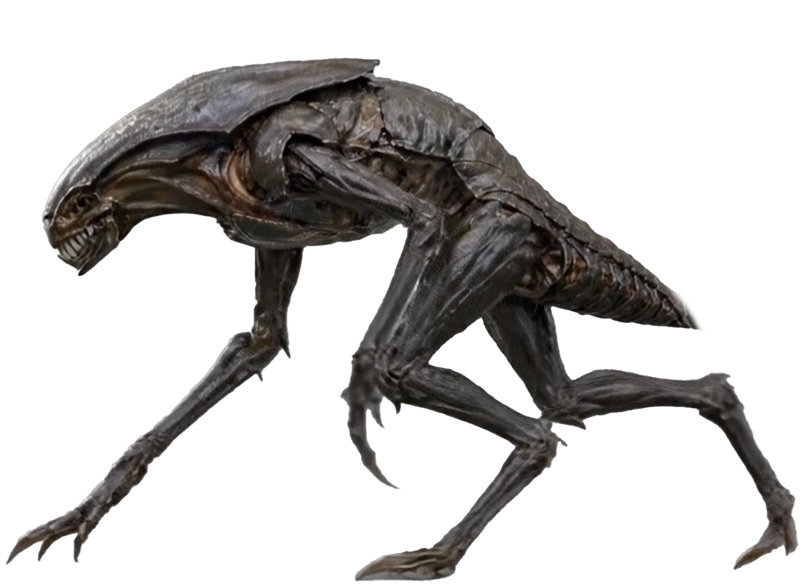
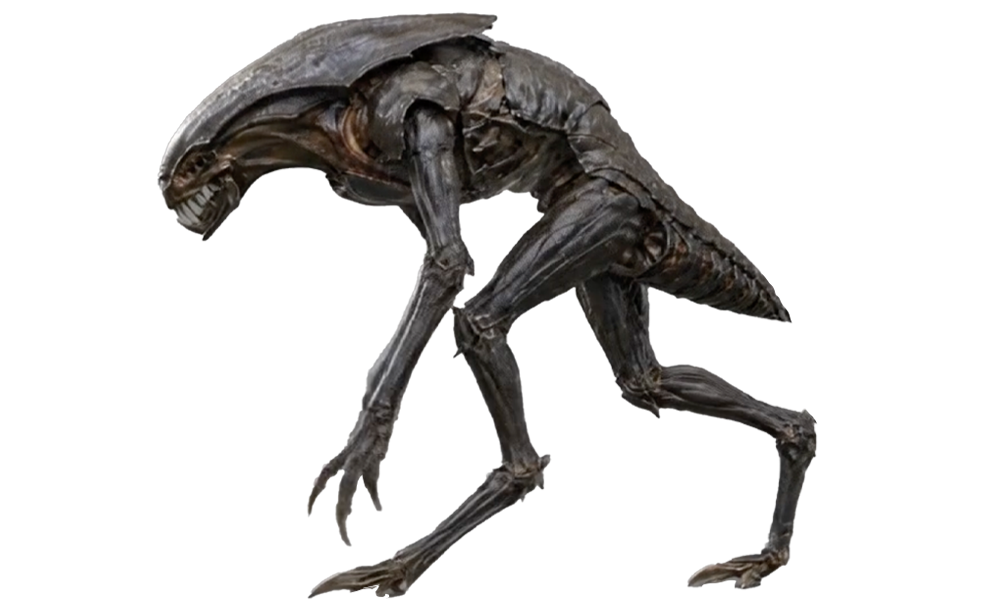
ボス雑魚拡充・捕獲挙動修正・矢印SVG化・無敵廃止
- 雑魚画像を 10:6 (1000×600) に統一、表示 40×24
- ボス用 alien-b-1/f/fl/fr 追加（add.sprite 化、emerge/turn/walk 共通機構）
  - boss は B_1 のみ単発フレーム。2-6 追加で本格歩行に拡張可能
  - 表示 56×56 に拡大、影も 50px に
- 雑魚 walk frameRate 12→8 にスローダウン
- 移動速度: 雑魚 45→50、ボス 28→30
- 仲間捕獲挙動を全面見直し：
  - 出てきた瞬間から捕獲対象（無敵延長を撤回）
  - 捕獲時はその場で停止 → 仲間も alien・泡と一緒に地中に引きずり込まれる
  - 「空中なら一旦地面へ」分岐を撤去、即捕獲アニメ
- 旧 boss-l/r テクスチャ参照を整理（雑魚と同じ animPrefix で統一）
- 旧 alien1-l/r.png（humanoid 画像）を削除
- ガイド矢印を assets/arrow.svg (1個分・右向き) に置換
  - makeArrowGroup ヘルパーで 1〜3 個並べ、左向きは flipX
  - 旧 6枚の addBase64 (label_arrow_*) 撤去
  - サイズは 0.25/6 で元の文字版とほぼ同等

diff --git a/index.html b/index.html
@@ -202,6 +202,7 @@
 
         function preload() {
             this.load.image('background', 'assets/background.jpg');
+            this.load.image('arrow_unit', 'assets/arrow.svg'); // 右向き矢印1個分（左向きは flipX）
             this.load.image('pod', 'assets/pod.png');
             this.load.image('spaceship', 'assets/spaceship.png');
             this.load.image('spacemy', 'assets/spacemy.png');
@@ -255,6 +256,11 @@
             // 攻撃（捕獲）2コマ。A2 で停止
             this.load.image('alien_A1', 'assets/alien-s-a1.png');
             this.load.image('alien_A2', 'assets/alien-s-a2.png');
+            // ボス（雑魚と同じ仕組み。歩行は現状 B_1 のみ、2-6 は後ほど追加予定）
+            this.load.image('alienB_1', 'assets/alien-b-1.png');
+            this.load.image('alienB_F', 'assets/alien-b-f.png');
+            this.load.image('alienB_FL', 'assets/alien-b-fl.png');
+            this.load.image('alienB_FR', 'assets/alien-b-fr.png');
             this.load.image('mooncar', 'assets/moon-car.png'); // 大破した月面探査車
             this.load.image('crew', 'assets/crew-f.png'); // 救出する仲間（正面）
             this.load.image('crew_0', 'assets/crew-0.png'); // 仲間（横向きアイドル）
@@ -355,20 +361,9 @@
                 this.makeFailLabel('label_missionfailed', 'Mission Failed');
                 this.makeFailLabel('label_rescuefailed', 'Rescue Failed');
 
-                // 方向矢印もSVGでクッキリ
-                const arrowOpts = {
-                    fontSize: 8,
-                    fill: '#88ffaa',
-                    fontWeight: '600',
-                    fontFamily: "Helvetica, Arial, sans-serif",
-                    charW: 0.45
-                };
-                ['>', '>>', '>>>', '<', '<<', '<<<'].forEach(s => {
-                    const key = 'label_arrow_' + s.replace(/>/g, 'r').replace(/</g, 'l');
-                    if (!this.textures.exists(key)) {
-                        this.textures.addBase64(key, makeLabelSVG(s, arrowOpts));
-                    }
-                });
+                // 方向矢印は assets/arrow.svg を直接使う（右向き1個分）。
+                // 1〜3個の矢印を横に並べ、左向きは flipX で反転。
+                const arrowOpts = { fill: '#88ffaa' }; // label_offtarget の流用元として残す
                 // ゴール外着地メッセージ（矢印と同サイズ・赤寄りピンク）
                 if (!this.textures.exists('label_offtarget')) {
                     this.textures.addBase64('label_offtarget', makeLabelSVG('Landed too far from target', { ...arrowOpts, fill: '#ff6688' }));
@@ -378,6 +373,30 @@
             generateLabels();
             // 4x で描画したビットマップを 1/4 で表示するためのスケール
             this._labelDisplayScale = 1 / SVG_SCALE;
+
+            // arrow.svg を 1〜3 個並べて方向矢印を作るヘルパー。
+            // SVG: viewBox 0-60, 矢印の見える幅は 0-40 (= 全体の 2/3)。
+            // 右向き＝そのまま、左向き＝flipX で反転。
+            this.makeArrowGroup = (anchorX, anchorY, count, isRight, depth, scale) => {
+                const dir = isRight ? 1 : -1;
+                const tex = this.textures.get('arrow_unit');
+                const srcW = tex.getSourceImage().width;     // 実ラスタ幅
+                const imageW = srcW * scale;                 // 表示時の画像本体幅
+                const arrowVisibleW = imageW * (40 / 60);    // 並びの間隔（密着）
+                // 右向き: anchorX を矢印群の左端に。左向き: anchorX を矢印群の右端に。
+                const baseX = isRight ? anchorX : anchorX - imageW;
+                const arrows = [];
+                for (let i = 0; i < count; i++) {
+                    const ax = baseX + dir * arrowVisibleW * i;
+                    arrows.push(this.add.image(ax, anchorY, 'arrow_unit')
+                        .setOrigin(0, 0.5)
+                        .setDepth(depth)
+                        .setAlpha(0)
+                        .setScale(scale)
+                        .setFlipX(!isRight));
+                }
+                return arrows;
+            };
 
             // 的マーカーの描画ヘルパー
             this.drawLandingMarker = (color) => {
@@ -854,7 +873,7 @@
                     { key: 'alien_5' },
                     { key: 'alien_6' }
                 ],
-                frameRate: 12,
+                frameRate: 8,
                 repeat: -1
             });
             // 振り向きアニメ（FL/FR は絶対向きなので flipX しない）
@@ -888,6 +907,37 @@
                 key: 'alien_attack',
                 frames: [{ key: 'alien_A1' }, { key: 'alien_A2' }],
                 frameRate: 10,
+                repeat: 0
+            });
+            // ----- ボス用アニメ（雑魚と同形状。歩行は B_1 単発のみ、2-6 追加で拡張予定）-----
+            this.anims.create({
+                key: 'bossAlien_walk',
+                frames: [{ key: 'alienB_1' }],
+                frameRate: 12,
+                repeat: -1
+            });
+            this.anims.create({
+                key: 'bossAlien_emerge_L',
+                frames: [{ key: 'alienB_F' }, { key: 'alienB_FL' }],
+                frameRate: 8,
+                repeat: 0
+            });
+            this.anims.create({
+                key: 'bossAlien_emerge_R',
+                frames: [{ key: 'alienB_F' }, { key: 'alienB_FR' }],
+                frameRate: 8,
+                repeat: 0
+            });
+            this.anims.create({
+                key: 'bossAlien_turn_LtoR',
+                frames: [{ key: 'alienB_FL' }, { key: 'alienB_FR' }],
+                frameRate: 14,
+                repeat: 0
+            });
+            this.anims.create({
+                key: 'bossAlien_turn_RtoL',
+                frames: [{ key: 'alienB_FR' }, { key: 'alienB_FL' }],
+                frameRate: 14,
                 repeat: 0
             });
 
@@ -1329,7 +1379,7 @@
 
                 // 地底人の移動＋宇宙飛行士との衝突
                 if (this.enemies && this.enemies.length) {
-                    const enemySpeed = 45;
+                    const enemySpeed = 50;
                     // 接触判定用の縮小ボックス（透過余白を除外）
                     const shrink = (obj, px, py) => {
                         const b = obj.getBounds();
@@ -1361,25 +1411,25 @@
                                 e.lastDir = dx === 0 ? prevDir : Math.sign(dx);
                             }
                             const sign = e.lastDir || 1;
-                            const sp = e.isBoss ? 28 : enemySpeed;
+                            const sp = e.isBoss ? 30 : enemySpeed;
+                            const animPrefix = e.isBoss ? 'bossAlien_' : 'alien_';
+                            const walkKey = animPrefix + 'walk';
                             // 振り向き／出現トランジション中は移動・アニメ切替しない
-                            if (!e.isBoss && !e.turning && !e.emergeTransitioning && sign !== prevDir
-                                && e.anims.currentAnim && e.anims.currentAnim.key === 'alien_walk') {
+                            if (!e.turning && !e.emergeTransitioning && sign !== prevDir
+                                && e.anims.currentAnim && e.anims.currentAnim.key === walkKey) {
                                 e.turning = true;
                                 e.setFlipX(false); // FL/FR は絶対向き
-                                const turnKey = sign > 0 ? 'alien_turn_LtoR' : 'alien_turn_RtoL';
+                                const turnKey = animPrefix + (sign > 0 ? 'turn_LtoR' : 'turn_RtoL');
                                 e.anims.play(turnKey);
                                 e.once('animationcomplete', () => {
                                     if (!e.active) return;
                                     e.turning = false;
                                     e.setFlipX(e.lastDir > 0);
-                                    e.anims.play('alien_walk');
+                                    e.anims.play(walkKey);
                                 });
                             } else if (!e.turning && !e.emergeTransitioning) {
                                 e.x += sign * sp * dt;
-                                if (e.isBoss) {
-                                    e.setTexture('boss_' + (sign < 0 ? 'L' : 'R'));
-                                } else if (e.anims.currentAnim && e.anims.currentAnim.key === 'alien_walk') {
+                                if (e.anims.currentAnim && e.anims.currentAnim.key === walkKey) {
                                     e.setFlipX(sign > 0);
                                 }
                             }
@@ -1396,6 +1446,9 @@
                             const isFirstCapture = !this.astronautGameOver;
                             hitCrew.captured = true;
                             e.capturing = true;
+                            // 捕まった仲間はその場で停止（落下・横移動の進行中tweenを切る）
+                            this.tweens.killTweensOf(hitCrew);
+                            if (hitCrew.anims && hitCrew.anims.isPlaying) hitCrew.anims.stop();
                             // 雑魚は攻撃モーション（A1→A2、A2 で停止）
                             if (!e.isBoss) {
                                 e.setFlipX(e.lastDir > 0); // A1/A2 は左向き、右向き時のみ反転
@@ -1477,13 +1530,13 @@
                                 });
 
                                 this.time.delayedCall(cTotal * 33 + 300, () => {
-                                    hitCrew.setVisible(false);
-                                    // 影を消して緑のシミに置き換える
+                                    // 影を消して緑のシミを地面に残す
                                     if (hitCrew.shadow) { hitCrew.shadow.destroy(); hitCrew.shadow = null; }
                                     spawnDissolveStain(this, captureX, this.groundFeetY);
                                     const sinkY = this.groundFeetY + 50;
+                                    // 仲間も一緒に地中へ引きずり込む
                                     this.tweens.add({
-                                        targets: [...cBubbles, e],
+                                        targets: [...cBubbles, e, hitCrew],
                                         y: sinkY,
                                         duration: 1000,
                                         ease: 'Sine.easeIn',
@@ -1491,6 +1544,7 @@
                                             cBubbles.forEach(b => b.destroy());
                                             if (e.shadow) e.shadow.destroy();
                                             e.destroy();
+                                            hitCrew.destroy();
                                             if (isFirstCapture) {
                                                 this.time.delayedCall(2500, () => { this.scene.restart(); });
                                             }
@@ -1499,13 +1553,8 @@
                                 });
                             };
 
-                            // 仲間が空中なら自然落下tween → 着地後に捕獲アニメ開始
-                            if (hitCrew.y >= this.groundFeetY - 1) {
-                                startCaptureAnim();
-                            } else {
-                                const dur = Math.min(400, (this.groundFeetY - hitCrew.y) * 8);
-                                this.tweens.add({ targets: hitCrew, y: this.groundFeetY, duration: dur, ease: 'Quad.easeIn', onComplete: startCaptureAnim });
-                            }
+                            // その場で捕獲開始（空中でも待たずに止めて引きずり込む）
+                            startCaptureAnim();
                             break; // このフレームで以降の処理は不要
                         }
                         if (!e.capturing && !this.astronaut.captured && this.astronaut.visible && Phaser.Geom.Intersects.RectangleToRectangle(astroBox, enemyBox)) {
@@ -1647,7 +1696,7 @@
                         const c = this.add.sprite(this.moonCar.x, doorY, 'crew_L2');
                         c.setFlipX(exitDir > 0);
                         c.setDisplaySize(15, 19);
-                        c.landed = false; // 着地までは捕獲対象外
+                        c.landed = true; // 出てきた瞬間から捕獲対象
                         c.setOrigin(0.5, 1);
                         c.setDepth(7);
                         // 影は地面に固定（生成時はドア上、降下後は地面）
@@ -1667,9 +1716,9 @@
                                 duration: 350,
                                 ease: 'Quad.easeIn', // 重力で加速して落下（プレイヤーと同じ感じ）
                                 onComplete: () => {
-                                    // 着地：アイドルポーズへ＋捕獲対象に
+                                    // 着地：アイドルポーズに（landed=true は追従開始時に一括で立てる。
+                                    // 着地フレームで捕獲される競合・他仲間のゴースト化を防止）
                                     c.setTexture('crew_0');
-                                    c.landed = true;
                                     // 着地時のSE（rescue-2/3/4 のランダム1つ）。
                                     // 「会話」感を出すため、最初の1人の着地でのみ返事して残りはスキップ。
                                     if (!this.rescueResponded) {
@@ -1716,14 +1765,13 @@
                             let step = 0;
                             const showArrow2 = () => {
                                 if (step >= totalSteps) return;
-                                const txt = arrows[step % STAGES];
-                                const arrowKey = 'label_arrow_' + txt.replace(/>/g, 'r').replace(/</g, 'l');
-                                const a = this.add.image(
-                                    baseAstro.x + offsetX, arrowY, arrowKey
-                                ).setOrigin(originX, 0.5).setDepth(12).setAlpha(0).setScale(this._labelDisplayScale || 0.25);
+                                const count = (step % STAGES) + 1;
+                                const group = this.makeArrowGroup(
+                                    baseAstro.x + offsetX, arrowY, count, isRight, 12, (this._labelDisplayScale || 0.25) / 6
+                                );
                                 this.tweens.add({
-                                    targets: a, alpha: 1, duration: STEP_DUR, yoyo: true, hold: STEP_HOLD,
-                                    onComplete: () => { a.destroy(); step++; showArrow2(); }
+                                    targets: group, alpha: 1, duration: STEP_DUR, yoyo: true, hold: STEP_HOLD,
+                                    onComplete: () => { group.forEach(a => a.destroy()); step++; showArrow2(); }
                                 });
                             };
                             showArrow2();
@@ -2530,31 +2578,26 @@
                                         const isBoss = this.bossesDue > 0;
                                         if (isBoss) this.bossesDue--;
                                         const dirFace = spawnX < this.astronaut.x ? 'R' : 'L';
-                                        const enemyH = isBoss ? 40 : 24;
-                                        // 雑魚は spritesheet 風アニメ（add.sprite）、ボスは従来通り add.image
-                                        const enemy = isBoss
-                                            ? this.add.image(spawnX, this.groundFeetY + enemyH, 'boss_' + dirFace)
-                                            : this.add.sprite(spawnX, this.groundFeetY + enemyH, 'alien_F'); // 出現中は正面
+                                        const enemyH = isBoss ? 56 : 24;
+                                        // 雑魚もボスも sprite で生成（出現中は正面固定）
+                                        const enemy = this.add.sprite(spawnX, this.groundFeetY + enemyH, isBoss ? 'alienB_F' : 'alien_F');
                                         enemy.setOrigin(0.5, 1);
                                         if (isBoss) {
-                                            enemy.setDisplaySize(40, 40);
+                                            enemy.setDisplaySize(56, 56);
                                             enemy.hp = 10;
                                         } else {
-                                            // 元画像比率 800:584 を維持（h=24 → w≒33）
-                                            enemy.setDisplaySize(33, 24);
+                                            // 元画像比率 1000:600 (10:6) を維持（h=24 → w=40）
+                                            enemy.setDisplaySize(40, 24);
                                             enemy.hp = 3;
-                                            enemy.lastDir = dirFace === 'R' ? 1 : -1;
-                                            // alien_1 と alien_2-6 で元画像サイズが異なるため、
-                                            // フレーム切替のたびに displaySize を再適用してサイズを固定
-                                            enemy.on('animationupdate', () => enemy.setDisplaySize(33, 24));
-                                            // 出現中は正面固定。emerging 完了後に walk を開始（下の tween onComplete）
                                         }
+                                        enemy.lastDir = dirFace === 'R' ? 1 : -1;
+                                        // 出現中は正面固定。emerging 完了後に walk を開始（下の tween onComplete）
                                         enemy.isBoss = isBoss;
                                         enemy.setDepth(8);
                                         enemy.setMask(this.groundMask);
                                         enemy.emerging = true;
                                         // 影：地中から出てくる瞬間から地面に表示（フェードインで予兆を演出）
-                                        enemy.shadow = createGroundShadow(this, enemy.x, this.groundFeetY, isBoss ? 36 : 12);
+                                        enemy.shadow = createGroundShadow(this, enemy.x, this.groundFeetY, isBoss ? 50 : 24);
                                         enemy.shadow.alpha = 0;
                                         this.tweens.add({ targets: enemy.shadow, alpha: 1, duration: 900, ease: 'Sine.easeOut' });
 
@@ -2623,19 +2666,18 @@
                                                 if (!enemy.active) return;
                                                 enemy.emerging = false;
                                                 enemy.clearMask();
-                                                // 出現完了 → F→FR/FL で振り向き → 1-6 ループへ
-                                                if (!enemy.isBoss) {
-                                                    enemy.setFlipX(false); // F/FL/FR は絶対向き
-                                                    enemy.emergeTransitioning = true;
-                                                    const emergeKey = enemy.lastDir > 0 ? 'alien_emerge_R' : 'alien_emerge_L';
-                                                    enemy.anims.play(emergeKey);
-                                                    enemy.once('animationcomplete', () => {
-                                                        if (!enemy.active) return;
-                                                        enemy.emergeTransitioning = false;
-                                                        enemy.setFlipX(enemy.lastDir > 0); // 1-6 は左向き
-                                                        enemy.anims.play('alien_walk');
-                                                    });
-                                                }
+                                                // 出現完了 → F→FR/FL で振り向き → walk ループへ
+                                                enemy.setFlipX(false); // F/FL/FR は絶対向き
+                                                enemy.emergeTransitioning = true;
+                                                const animPrefix = enemy.isBoss ? 'bossAlien_' : 'alien_';
+                                                const emergeKey = animPrefix + (enemy.lastDir > 0 ? 'emerge_R' : 'emerge_L');
+                                                enemy.anims.play(emergeKey);
+                                                enemy.once('animationcomplete', () => {
+                                                    if (!enemy.active) return;
+                                                    enemy.emergeTransitioning = false;
+                                                    enemy.setFlipX(enemy.lastDir > 0); // walk フレームは左向き基準
+                                                    enemy.anims.play(animPrefix + 'walk');
+                                                });
                                             }
                                         });
                                         this.enemies.push(enemy);
@@ -2684,19 +2726,18 @@
                                         let step = 0;
                                         const showArrow = () => {
                                             if (step >= totalSteps) return;
-                                            const txt = arrows[step % STAGES];
-                                            const arrowKey = 'label_arrow_' + txt.replace(/>/g, 'r').replace(/</g, 'l');
-                                            const a = this.add.image(
-                                                astronaut.x + offsetX, arrowY, arrowKey
-                                            ).setOrigin(originX, 0.5).setDepth(12).setAlpha(0).setScale(this._labelDisplayScale || 0.25);
+                                            const count = (step % STAGES) + 1;
+                                            const group = this.makeArrowGroup(
+                                                astronaut.x + offsetX, arrowY, count, isRight, 12, (this._labelDisplayScale || 0.25) / 6
+                                            );
                                             this.tweens.add({
-                                                targets: a,
+                                                targets: group,
                                                 alpha: 1,
                                                 duration: STEP_DUR,
                                                 yoyo: true,
                                                 hold: STEP_HOLD,
                                                 onComplete: () => {
-                                                    a.destroy();
+                                                    group.forEach(a => a.destroy());
                                                     step++;
                                                     showArrow();
                                                 }
